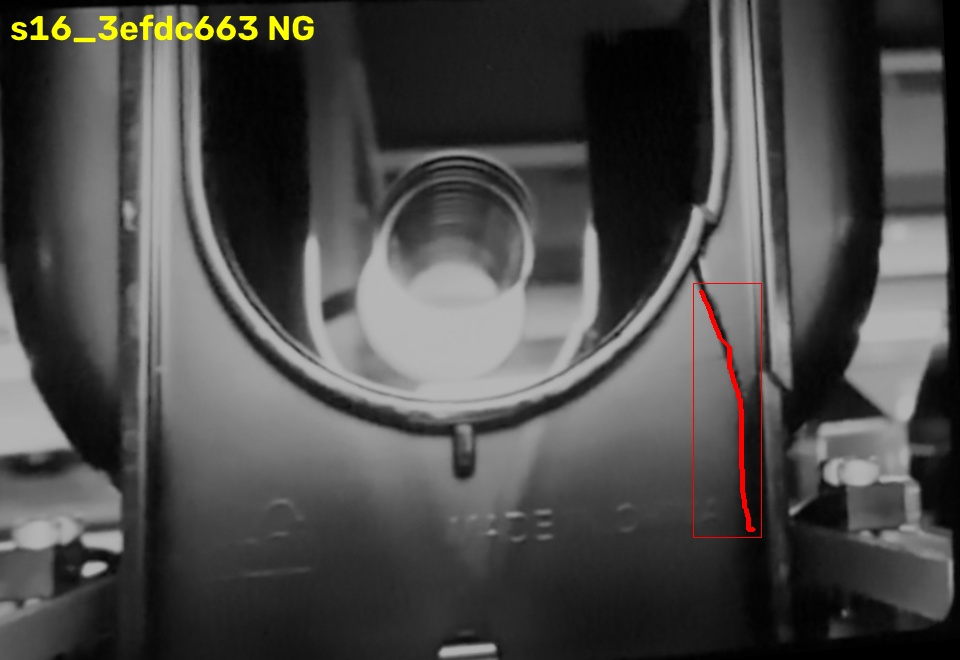
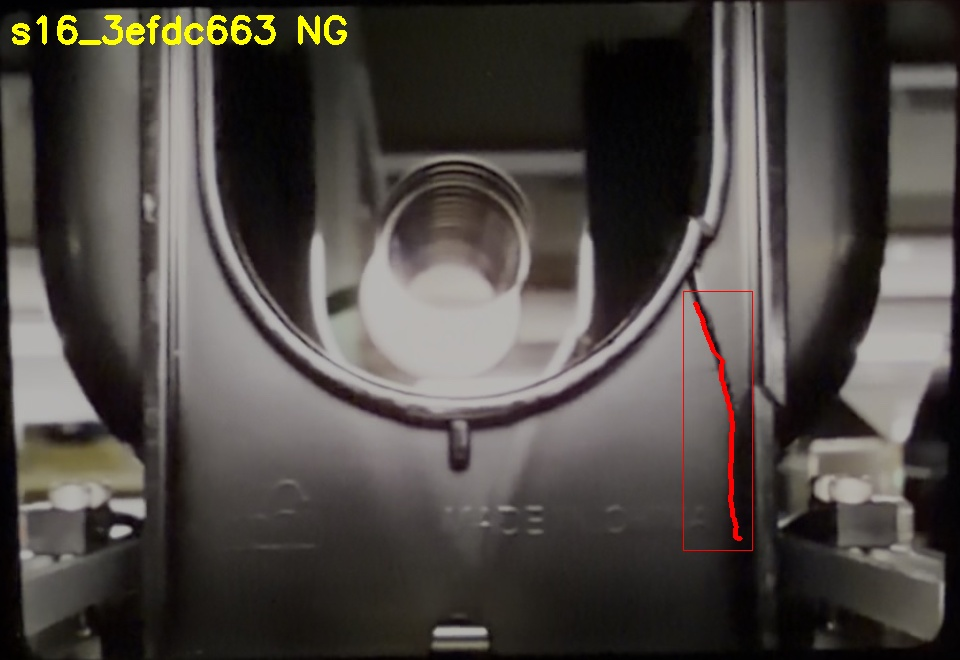
Draw results on the input image instead of the warped one (no tilted borders); --aligned for debug
Claude-Session: https://claude.ai/code/session_01AGHVZAzegJVfdU4wL5nFmJ

diff --git a/crack_v14/cli.py b/crack_v14/cli.py
@@ -17,6 +17,7 @@ def main():
     ap.add_argument("--out", default="out")
     ap.add_argument("--ref-dir", default="data/refs", help="ref_B.png / ref_D.png (reference frame)")
     ap.add_argument("--screen", action="store_true", help="inputs are phone photos of the monitor")
+    ap.add_argument("--aligned", action="store_true", help="draw on the image warped to the reference (debug)")
     a = ap.parse_args()
     refs = {k: cv2.imread(os.path.join(a.ref_dir, f"ref_{k}.png"), 0) for k in GEOM}
     ins = Inspector(refs)
@@ -25,18 +26,21 @@ def main():
     rows, tiles, summary = [], [], []
     for f in files:
         name = os.path.splitext(os.path.basename(f))[0]
-        r = ins.inspect(cv2.cvtColor(load(f, a.screen), cv2.COLOR_BGR2GRAY))
+        img = load(f, a.screen)
+        r = ins.inspect(cv2.cvtColor(img, cv2.COLOR_BGR2GRAY))
         if r["judgment"] == "ERROR":
             print(name, "ERROR", r.get("reason")); continue
-        vis = cv2.cvtColor(r["warped"], cv2.COLOR_GRAY2BGR)
+        # draw on the input image itself (not the warped one), so nothing looks tilted
+        vis = cv2.cvtColor(r["warped"], cv2.COLOR_GRAY2BGR) if a.aligned else img.copy()
+        lw = max(2, round(vis.shape[1] / 320))
         msg = f"{name:24s} view={r['kind']} {r['judgment']:2s} {r['detail']:4s}"
         for t, col in (("D", (0, 0, 255)), ("B", (255, 200, 0))):
             for i, q in enumerate(r["res"].get(t, [])):
-                p = q["path"][:, ::-1].astype(np.int32)
+                p = (q["path"][:, ::-1] if a.aligned else q["path_img"]).astype(np.int32)
                 (x0, y0), (x1, y1) = p.min(0), p.max(0)
                 if q["ng"]:
-                    cv2.polylines(vis, [p], False, col, 3)
-                    cv2.rectangle(vis, (x0 - 8, y0 - 8), (x1 + 8, y1 + 8), col, 1)
+                    cv2.polylines(vis, [p], False, col, lw)
+                    cv2.rectangle(vis, (x0 - 4 * lw, y0 - 4 * lw), (x1 + 4 * lw, y1 + 4 * lw), col, max(1, lw // 2))
                 rb = q.get("rim_break")
                 msg += (f" | {t}{i} r={q['ratio']:.2f} gap={q['max_gap']:.0f}"
                         + (f" rim={rb:.2f}" if rb is not None else "") + (" NG" if q["ng"] else ""))
@@ -46,9 +50,11 @@ def main():
                              "" if rb is None else round(rb, 3), q["ng"], u0, v0, u1, v1])
         print(msg)
         summary.append([name, r["judgment"], r["detail"], len(r["defects"])])
-        cv2.putText(vis, f"{name} {r['judgment']}", (10, 40), 0, 1.2, (0, 255, 255), 3)
+        cv2.putText(vis, f"{name} {r['judgment']}", (10, 14 * lw), 0, 0.4 * lw, (0, 255, 255), lw)
         cv2.imwrite(os.path.join(a.out, f"{name}.jpg"), vis)
-        tiles.append(cv2.resize(vis, (480, 330)))
+        t = cv2.resize(vis, (480, round(480 * vis.shape[0] / vis.shape[1])))
+        tile = np.zeros((360, 480, 3), np.uint8); tile[:min(360, t.shape[0])] = t[:360]
+        tiles.append(tile)
     if tiles:
         while len(tiles) % 4: tiles.append(np.zeros_like(tiles[0]))
         cv2.imwrite(os.path.join(a.out, "result_grid.jpg"),

diff --git a/gist/crack_v14_bundle.py b/gist/crack_v14_bundle.py
@@ -29,6 +29,7 @@ def main():
     ap.add_argument("--out", default="out")
     ap.add_argument("--ref-dir", default="data/refs", help="ref_B.png / ref_D.png (reference frame)")
     ap.add_argument("--screen", action="store_true", help="inputs are phone photos of the monitor")
+    ap.add_argument("--aligned", action="store_true", help="draw on the image warped to the reference (debug)")
     a = ap.parse_args()
     refs = {k: cv2.imread(os.path.join(a.ref_dir, f"ref_{k}.png"), 0) for k in GEOM}
     ins = Inspector(refs)
@@ -37,18 +38,21 @@ def main():
     rows, tiles, summary = [], [], []
     for f in files:
         name = os.path.splitext(os.path.basename(f))[0]
-        r = ins.inspect(cv2.cvtColor(load(f, a.screen), cv2.COLOR_BGR2GRAY))
+        img = load(f, a.screen)
+        r = ins.inspect(cv2.cvtColor(img, cv2.COLOR_BGR2GRAY))
         if r["judgment"] == "ERROR":
             print(name, "ERROR", r.get("reason")); continue
-        vis = cv2.cvtColor(r["warped"], cv2.COLOR_GRAY2BGR)
+        # draw on the input image itself (not the warped one), so nothing looks tilted
+        vis = cv2.cvtColor(r["warped"], cv2.COLOR_GRAY2BGR) if a.aligned else img.copy()
+        lw = max(2, round(vis.shape[1] / 320))
         msg = f"{name:24s} view={r['kind']} {r['judgment']:2s} {r['detail']:4s}"
         for t, col in (("D", (0, 0, 255)), ("B", (255, 200, 0))):
             for i, q in enumerate(r["res"].get(t, [])):
-                p = q["path"][:, ::-1].astype(np.int32)
+                p = (q["path"][:, ::-1] if a.aligned else q["path_img"]).astype(np.int32)
                 (x0, y0), (x1, y1) = p.min(0), p.max(0)
                 if q["ng"]:
-                    cv2.polylines(vis, [p], False, col, 3)
-                    cv2.rectangle(vis, (x0 - 8, y0 - 8), (x1 + 8, y1 + 8), col, 1)
+                    cv2.polylines(vis, [p], False, col, lw)
+                    cv2.rectangle(vis, (x0 - 4 * lw, y0 - 4 * lw), (x1 + 4 * lw, y1 + 4 * lw), col, max(1, lw // 2))
                 rb = q.get("rim_break")
                 msg += (f" | {t}{i} r={q['ratio']:.2f} gap={q['max_gap']:.0f}"
                         + (f" rim={rb:.2f}" if rb is not None else "") + (" NG" if q["ng"] else ""))
@@ -58,9 +62,11 @@ def main():
                              "" if rb is None else round(rb, 3), q["ng"], u0, v0, u1, v1])
         print(msg)
         summary.append([name, r["judgment"], r["detail"], len(r["defects"])])
-        cv2.putText(vis, f"{name} {r['judgment']}", (10, 40), 0, 1.2, (0, 255, 255), 3)
+        cv2.putText(vis, f"{name} {r['judgment']}", (10, 14 * lw), 0, 0.4 * lw, (0, 255, 255), lw)
         cv2.imwrite(os.path.join(a.out, f"{name}.jpg"), vis)
-        tiles.append(cv2.resize(vis, (480, 330)))
+        t = cv2.resize(vis, (480, round(480 * vis.shape[0] / vis.shape[1])))
+        tile = np.zeros((360, 480, 3), np.uint8); tile[:min(360, t.shape[0])] = t[:360]
+        tiles.append(tile)
     if tiles:
         while len(tiles) % 4: tiles.append(np.zeros_like(tiles[0]))
         cv2.imwrite(os.path.join(a.out, "result_grid.jpg"),
